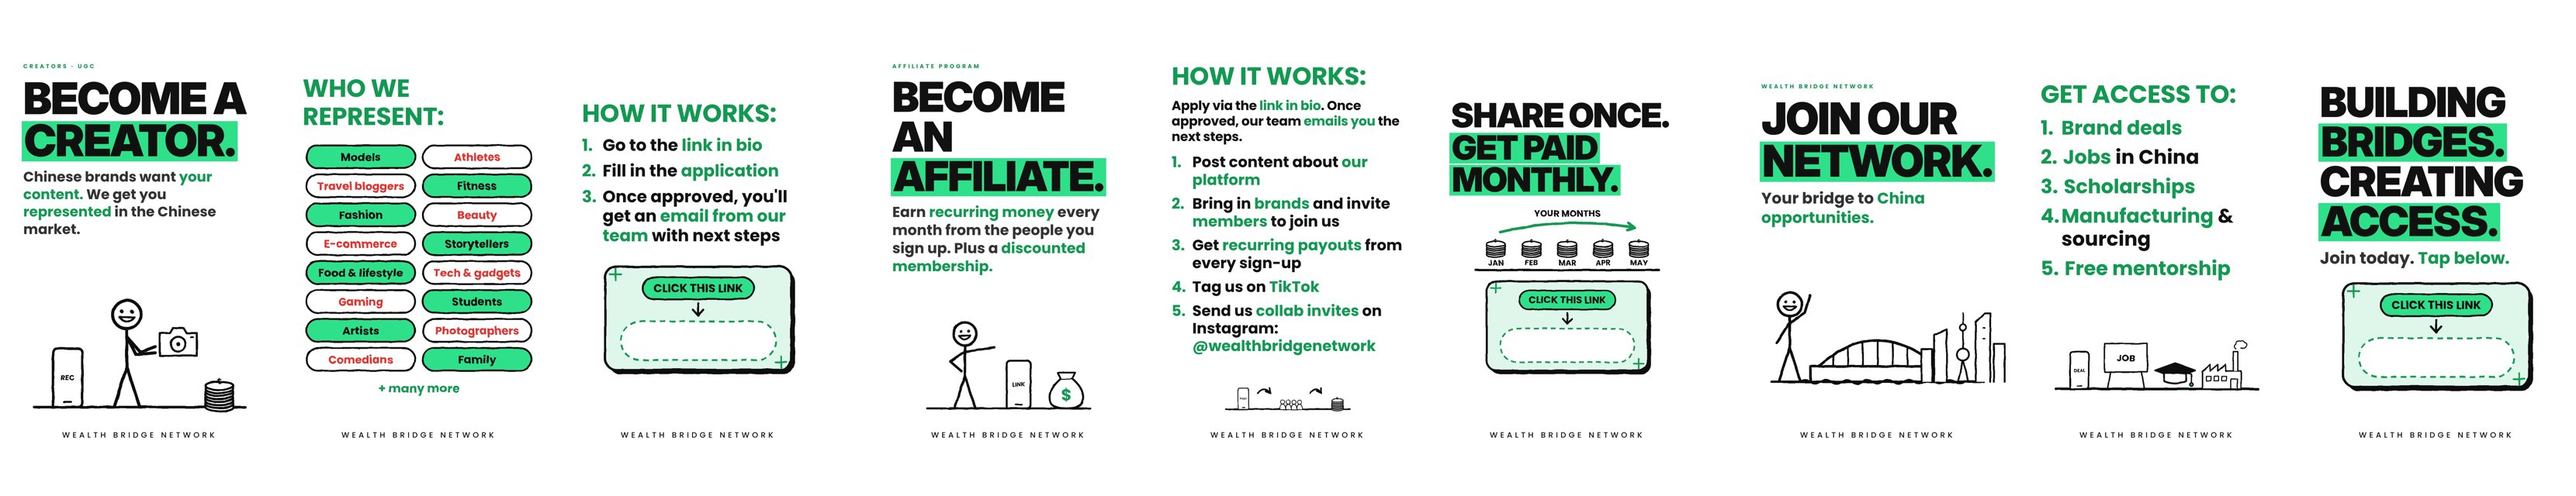
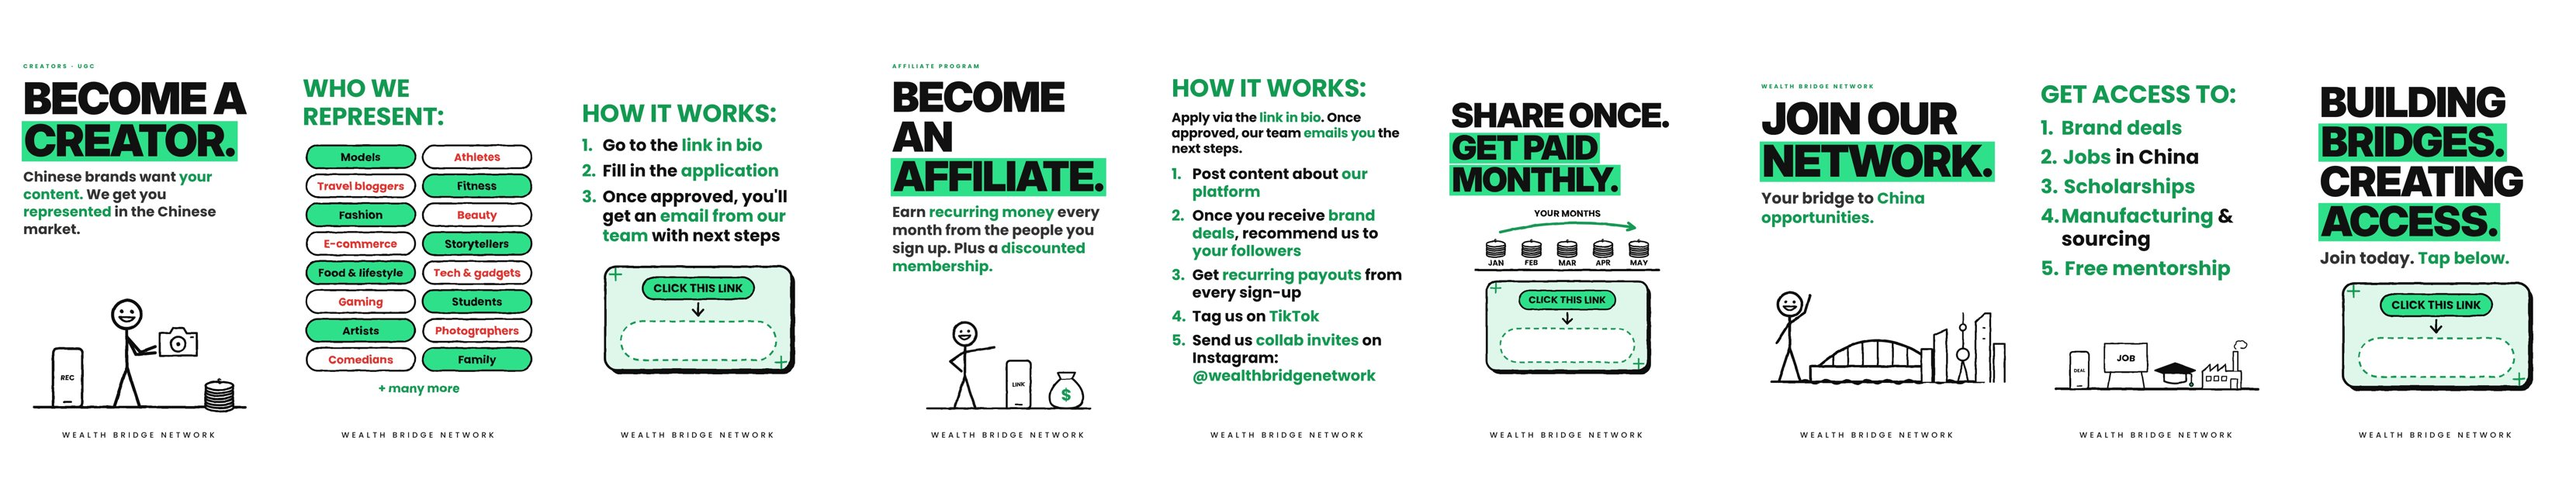
Highlights: affiliate step 2 = recommend us once you receive brand deals; drop tiny drawing
Claude-Session: https://claude.ai/code/session_01XWHiAuJ5usg3NqhhkBZ2QK

Changed region(s): [[0.4343, 0.125, 0.5584, 0.8438]]

diff --git a/content/highlights.py b/content/highlights.py
@@ -63,9 +63,8 @@ dict(id="hl-affiliate", title="Affiliate", slides=[
       scene=ground(40, 860, 620) + figure(230, 620, 1.25, "point", "grin") + phone(500, 620, 1.0, "LINK") + moneybag(740, 620, 1.0), vh=640),
  dict(head="How it *works:*", hd=96,
       text=["Apply via the *link in bio*. Once approved, our team *emails you* the next steps."], fs=50,
-      items=["Post content about *our platform*", "Bring in *brands* and invite *members* to join us", "Get *recurring payouts* from every sign-up",
-             "Tag us on *TikTok*", "Send us *collab invites* on Instagram: *@wealthbridgenetwork*"], **{"is": 58},
-      scene=ground(60, 840, 240) + phone(170, 240, 0.55, "POST") + arrow(260, 140, 340, 140, -50) + crowd(470, 240, 0.5, 4, "happy") + arrow(590, 140, 660, 140, -50) + coins(760, 240, 0.6, 4), vh=260),
+      items=["Post content about *our platform*", "Once you receive *brand deals*, recommend us to *your followers*", "Get *recurring payouts* from every sign-up",
+             "Tag us on *TikTok*", "Send us *collab invites* on Instagram: *@wealthbridgenetwork*"], **{"is": 58}),
  dict(hook="Share once.\n*Get paid*\n*monthly.*", hs=130,
       scene=lbl(450, 30, "YOUR MONTHS", INK, 40) + arrow(150, 100, 750, 80, -60, GREEN, 12)
       + ground(40, 860, 270) + month(130, 200, 0.7, "JAN") + month(290, 200, 0.7, "FEB") + month(450, 200, 0.7, "MAR")
